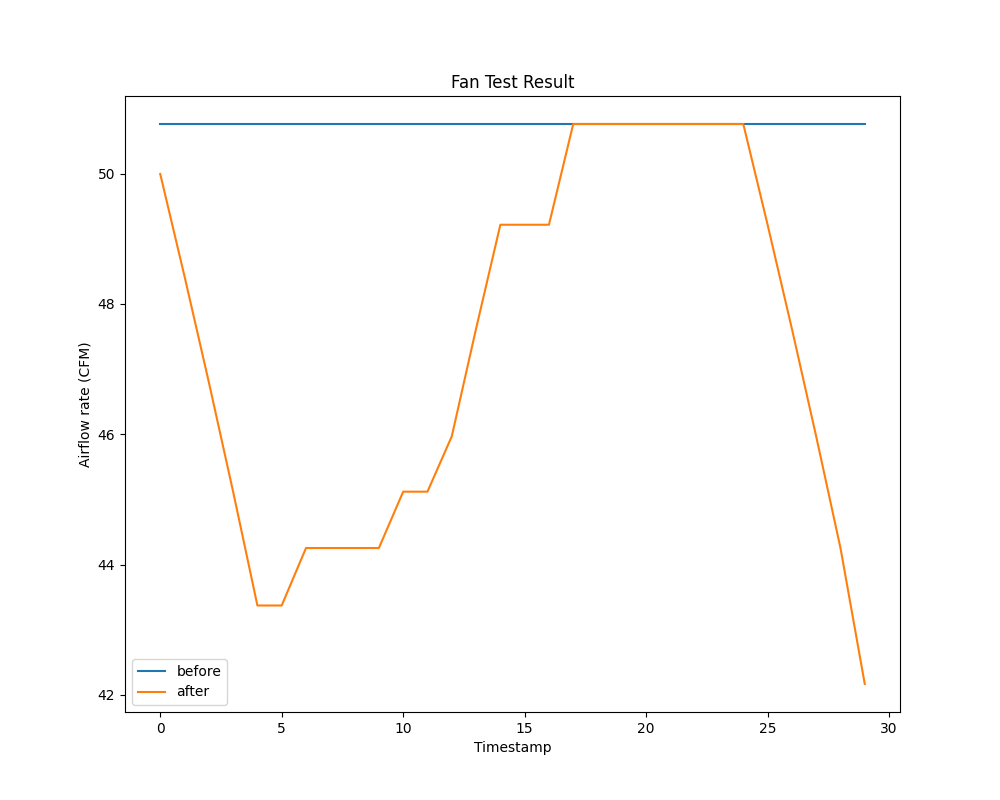
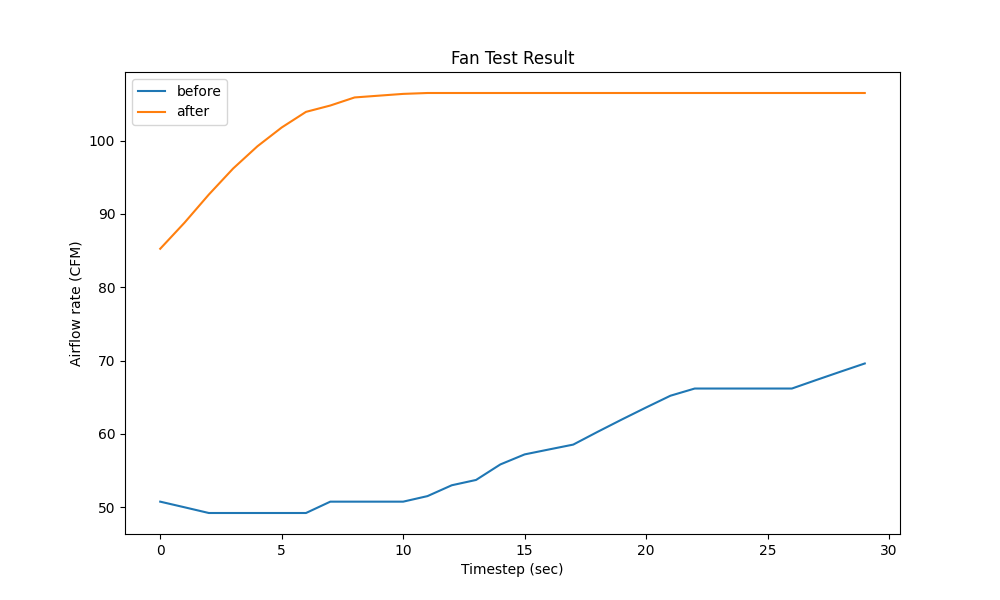
upload for chamber test

diff --git a/control_fan_chamber.py b/control_fan_chamber.py
@@ -72,7 +72,7 @@ if supply_damper_command != {}:
     command = BACnet_Point(**supply_damper_command) if bool(supply_damper_command) else supply_damper_command
     current_value = command.get_point_value(BACpypesAPP)
     if current_value == 0:
-        command.write_point_value(BACpypesAPP, 50, 13)
+        command.write_point_value(BACpypesAPP, 100, 13)
 
     values = []
     for i in range(3):
@@ -107,7 +107,7 @@ if result_dict.get('Pre').get('verified'):
         command = BACnet_Point(**vav_damper_command) if bool(vav_damper_command) else vav_damper_command
         current_value = command.get_point_value(BACpypesAPP)
         if current_value == 0:
-            command.write_point_value(BACpypesAPP, 10, 13)
+            command.write_point_value(BACpypesAPP, 50, 13)
 
         values = []
         for i in range(3):
@@ -157,7 +157,7 @@ if result_dict.get(test).get('step_1').get('verified'):
     command = BACnet_Point(**fan_speed_command) if bool(fan_speed_command) else fan_speed_command
     current_value = command.get_point_value(BACpypesAPP)
     if current_value == 0:
-        command.write_point_value(BACpypesAPP, 10, 13)
+        command.write_point_value(BACpypesAPP, 50, 13)
     else:
         command.write_point_value(BACpypesAPP, current_value + 10, 13)
 
@@ -219,6 +219,10 @@ result_dict.get(test).update({'step_4':{}})
 command = BACnet_Point(**fan_speed_command) if bool(fan_speed_command) else fan_speed_command
 command.write_point_value(BACpypesAPP, 'null', 13)
 
+# erase: fan vfd enable
+command = BACnet_Point(**supply_vfd_enable) if bool(supply_vfd_enable) else supply_vfd_enable
+command.write_point_value(BACpypesAPP, 'null', 13)
+
 # erase: vav damper command
 command = BACnet_Point(**vav_damper_command) if bool(vav_damper_command) else vav_damper_command
 command.write_point_value(BACpypesAPP, 'null', 13)
@@ -233,7 +237,6 @@ if not result_dict.get(test).get('step_3').get('verified'):
     print("Step 3 verification failed!")
 
 # %%
-import pdb; pdb.set_trace()
 
 with open('./results/fan_test_result.yaml', 'w') as file:
     yaml.dump(result_dict, file, sort_keys=False)

diff --git a/functions/plot_result.py b/functions/plot_result.py
@@ -7,11 +7,11 @@ def make_plot():
     with open('./results/fan_test_result.yaml', 'r') as f:
         result_dict = yaml.safe_load(f)
 
-    plt.figure(figsize=[10, 8])
+    plt.figure(figsize=[10, 6])
     plt.plot(result_dict['Test_1']['step_1']['airflow_rate_value'], label = "before")
     plt.plot(result_dict['Test_1']['step_3']['airflow_rate_value'], label = "after")
     plt.title('Fan Test Result')
-    plt.xlabel("Timestamp")
+    plt.xlabel("Timestep (sec)")
     plt.ylabel("Airflow rate (CFM)")
     plt.legend()
 
